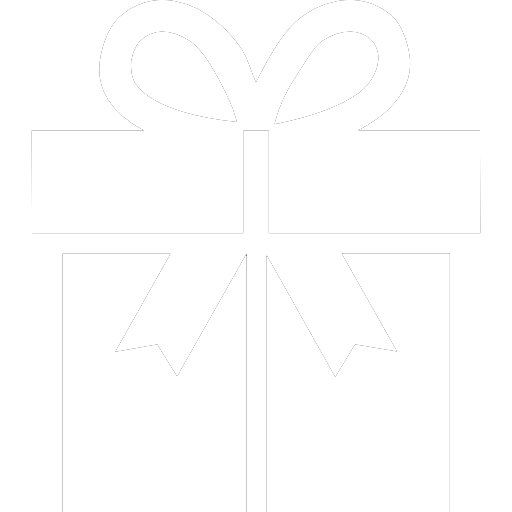
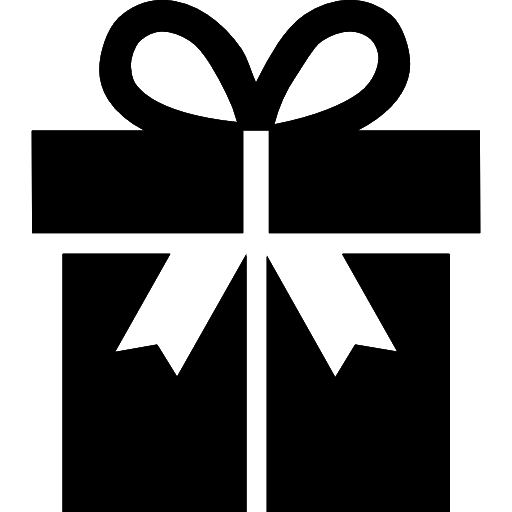
Present

diff --git a/public/style.css b/public/style.css
@@ -198,7 +198,7 @@ html:not([data-scroll='0']) .navflex {
     transition: background-color 0.5s, height 0.5s;
 }
 
-.navleftflex:hover, #navAbout:hover, .navGoals:hover, .navProjects:hover, .navContact:hover  {
+.navleftflex:hover, #navAbout:hover, #navGoals:hover, #navProjects:hover, #navContact:hover  {
  opacity: 75%;
  cursor: pointer;
 }
@@ -295,13 +295,14 @@ html:not([data-scroll='0']) .navflex {
     display: grid;
     background-color: rgb(238, 238, 238);
     border-radius: 10%;
+    transition: opacity 0.75s;
 }
 
 .TLDRcontainer > p{
     font-family: lato;
     font-weight: 300;
     font-size: 22px;
-    color: #333;
+    color: #525252;
     padding-top: 20px;
     grid-template-columns: 1fr;
 }
@@ -330,37 +331,84 @@ html:not([data-scroll='0']) .navflex {
     width: 100%;
     height: 600px;
     background-color: rgb(238, 238, 238);
-    display: grid;
-    justify-content: center;
-    align-items: center;
 }
 
 .goalsHeadingFlex {
     display: flex;
     height: auto;
     width: 100%;
-    text-align: center;
     justify-content: center;
+}
+
+.goalsHeadingFlex > p {
+    margin-top: 50px;
+    margin-bottom: -50px;
+    font-family: Lato, sans-serif;
+    font-size: 36px;
+    font-weight: 300;
+    color: #333333;
 }
 
 .goalsImageFlex {
+    margin-top: 125px;
     display: flex;
-    width: 100%;
+    width: auto;
     height: 200px;
-}
-
-.circle {
-    background-color: rgb(38, 95, 170);
-    border-radius: 50%;
-    height: 200px;
-    width: 200px;
-    display: flex;
-    object-fit: contain;
     justify-content: center;
-    align-items: center;
 }
 
-.circle > img{
-    height: 80px;
-    width: 80px;  
+.present {
+    height: 70px;
+    width: 70px;
+    padding-top: 20px;
+    animation: present 1.5s infinite ease-in-out;
+}
+
+@keyframes present {
+    20%{
+        transform: rotate(20deg);
+    }
+    40%{
+        transform: rotate(-20deg);
+    }
+    60%{
+        transform: rotate(20deg);
+    }
+    80%{
+        transform: rotate(-20deg);
+    }
+}
+
+.presentOpen {
+    height: 70px;
+    width: 70px;
+    padding-top: 20px;
+    animation: presentOpen 1s 1 ease-in;
+}
+
+@keyframes presentOpen {
+    20%{
+        transform: rotate(30deg);
+    }
+    40%{
+        transform: rotate(-30deg);
+    }
+    60%{
+        transform: rotate(30deg);
+    }
+    80%{
+        transform: rotate(-30deg);
+    }
+    100%{
+        transform: translateY(-20px);
+        opacity: 0;
+    }
+}
+
+.present:hover {
+    cursor: pointer;
+}
+
+.transparent {
+    opacity: 0;
 }

diff --git a/src/components/Goals.jsx b/src/components/Goals.jsx
@@ -1,14 +1,48 @@
 import React from 'react'
 
 function Goals() {
+
+  const toggleClass = () => {
+    var element2 = document.getElementById("present1");
+    element2.parentNode.removeChild(element2);
+
+    var element3 = document.getElementById("hold1");
+    element3.parentNode.removeChild(element3);
+
+    var element = document.getElementById("circle1");
+    element.classList.add("transparent");
+  };
+
+
+  const toggleClass2 = () => {
+    var element2 = document.getElementById("present2");
+    element2.parentNode.removeChild(element2);
+
+    var element3 = document.getElementById("hold2");
+    element3.parentNode.removeChild(element3);
+
+    var element = document.getElementById("circle2");
+    element.classList.add("transparent");
+  };
+
+
+  const toggleClass3 = () => {
+    var element2 = document.getElementById("present3");
+    element2.parentNode.removeChild(element2);
+
+    var element3 = document.getElementById("hold3");
+    element3.parentNode.removeChild(element3);
+
+    var element = document.getElementById("circle3");
+    element.classList.add("transparent");
+  };
+
+
   return (
     <section className="goalsWrapper">
       
         <div className="goalsHeadingFlex"><p>What I'm looking to accomplish</p></div>
         <div className="goalsImageFlex">
-          <div className="circle"><img src="present-icon.png"></img></div>
-          <div className="circle"><img src="present-icon.png"></img></div>
-          <div className="circle"><img src="present-icon.png"></img></div>
         </div>
 
     </section>

diff --git a/src/components/About.jsx b/src/components/About.jsx
@@ -1,6 +1,28 @@
 import React from 'react'
 
 function About() {
+
+  const removePresent = () => {
+
+    var element = document.getElementById("present");
+
+      var ele = document.getElementById("present");
+      ele.classList.remove("present");
+      ele.classList.add("presentOpen");
+
+      setTimeout(letAnimate, 1000);
+
+        function letAnimate(){
+          element.parentNode.removeChild(element);
+          var element2 = document.getElementById("TLDR");
+          element2.classList.remove("transparent");
+        }
+
+
+
+
+  }
+
   return (
 
     <section className="aboutFlex">
@@ -19,7 +41,10 @@ function About() {
                 <br></br>
                 Apart from coding, I like playing strategy games and making digital art :&#41;
             </p>
-            <div className="TLDRcontainer">
+            <div className="presentContainer">
+              <img id="present" src="present-icon.png" className="present" onClick={removePresent}></img>
+            </div>
+            <div id="TLDR" className={'TLDRcontainer' + ' ' + 'transparent'}>
               <p>TL;DR?</p>
               <div className="TLDRflex">
                   <div>

diff --git a/src/components/Navbar.jsx b/src/components/Navbar.jsx
@@ -22,8 +22,8 @@ function Navbar() {
                 <div className="navrightflex">
                     <a id="navAbout" href="#About">ABOUT</a>
                     <a id="navGoals" href="#Goals">GOALS</a>
-                    <a className="navProjects">PROJECTS</a>
-                    <a className="navContact">CONTACT</a>
+                    <a id="navProjects" className="navProjects">PROJECTS</a>
+                    <a id="navContact" className="navContact">CONTACT</a>
                     <img src="info.png"></img>
                 </div>
                 
